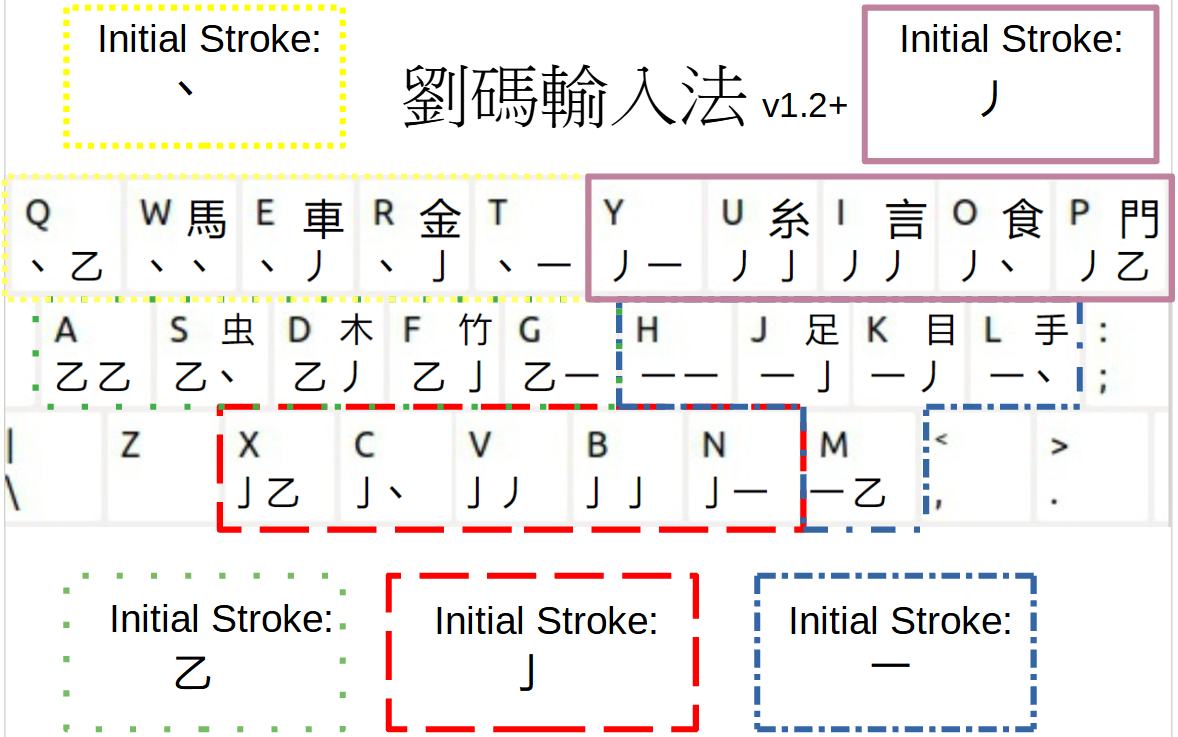
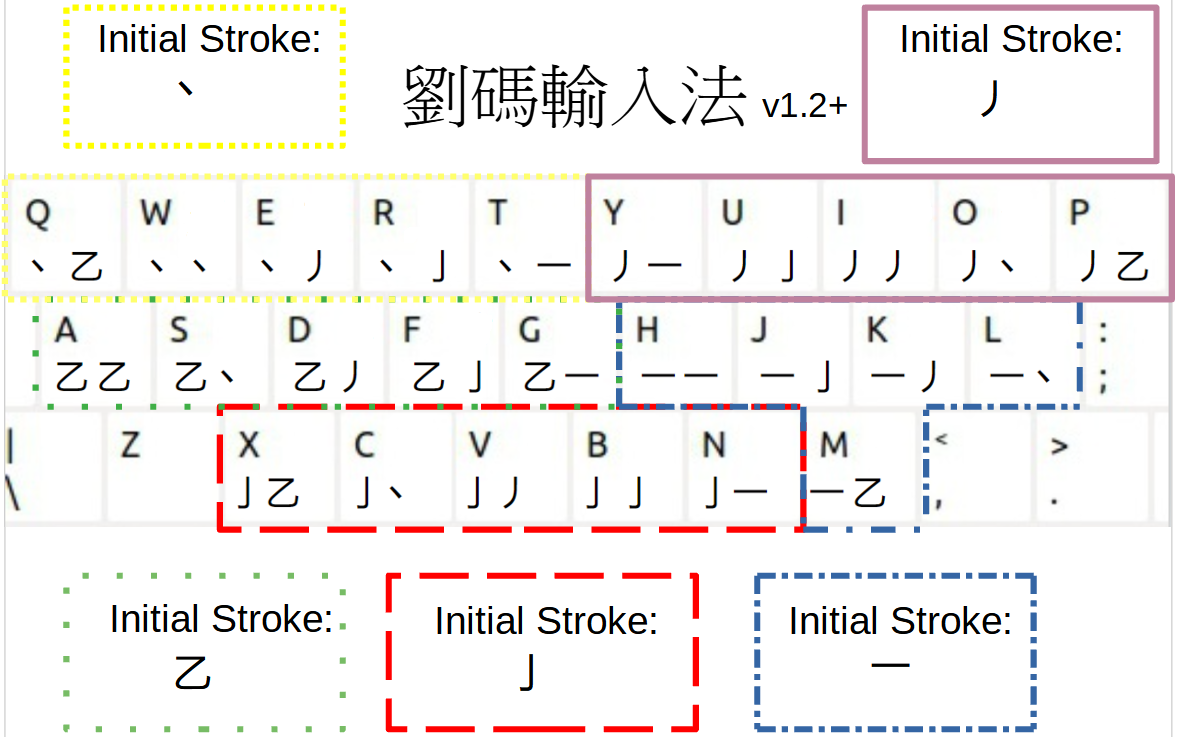
updated liuma, CKC and cangjie files

diff --git a/instructions/OTHER_METHODS.md b/instructions/OTHER_METHODS.md
@@ -12,7 +12,7 @@ For those interested in other methods, here are some learning resources:
 
 ### Cangjie 5 倉頡
 
-![Cangjie keyboard](../images/othermethods/cangjiev2.jpg)
+![Cangjie keyboard](../images/othermethods/cangjiekeyboard2.png)
 
 ![Cangjie example](../images/othermethods/cangjieeks.jpg)
 
@@ -133,7 +133,7 @@ For those interested in other methods, here are some learning resources:
 
 ![CKC keyboard](../images/othermethods/ckc.png)
 
-![CKC example](../images/othermethods/ckceks.png)
+![CKC example](../images/othermethods/CKCeks2.png)
 
 - wikibook:
 - https://en.wikipedia.org/wiki/CKC_Chinese_Input_System

diff --git a/instructions/TUTORIAL.md b/instructions/TUTORIAL.md
@@ -67,7 +67,7 @@ are put together on the same line, ordered with the horizontal stroke near the c
 then vertical, left-slanted, right-slanted and bent stroke towards the sides of the keyboard, 
 as you can see on the keyboard below:
 
-![Liuma keyboard](../images/liumakeyboard-v1-2.png)
+![Liuma keyboard](../images/liumakeyboard-v1-2plus.png)
 
 This overview might be a bit unclear. Here is another way of presenting it that might make it
 clearer:
